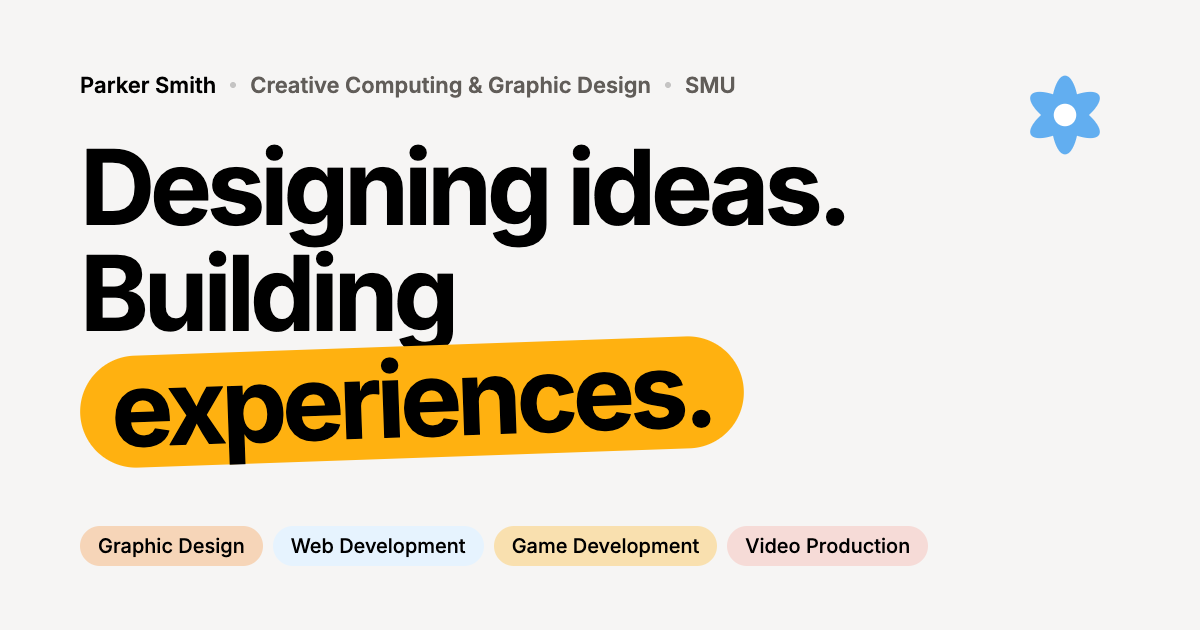
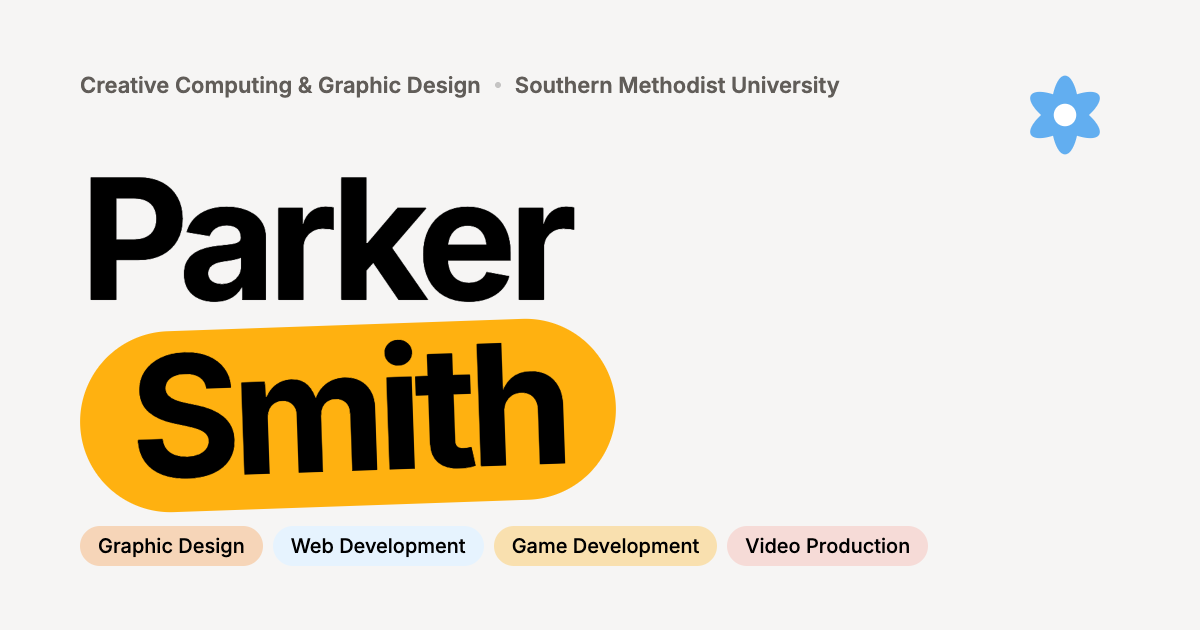
Lead with the name; trim About and Contact
- Hero headline is now "Parker Smith" (yellow pill on "Smith"); the line
  above it drops the name and keeps school and location.
- Contact heading is now "Contact Me".
- Remove the Relevant coursework cards from About.
- Regenerate the share image to match the new headline.

Changed region(s): [[0.0617, 0.2111, 0.7092, 0.8143], [0.0617, 0.1206, 0.7092, 0.1508], [0.0617, 0.573, 0.0925, 0.6032]]

diff --git a/src/components/AboutEducation.tsx b/src/components/AboutEducation.tsx
@@ -1,10 +1,8 @@
 import { motion } from "motion/react";
-import { BookOpen, Box, Gamepad2, GraduationCap, Layers, MapPin, PenTool } from "lucide-react";
+import { GraduationCap, MapPin } from "lucide-react";
 import { about, education } from "../data/portfolio";
 import { DrawLine, Reveal, SectionHeading, Stagger, StaggerItem } from "./AnimatedSection";
 
-const COURSE_ICONS = [Gamepad2, Box, PenTool, Layers];
-const COURSE_TONES = ["bg-marigold text-ink", "bg-sky text-ink", "bg-coral text-white", "bg-midnight text-white"];
 
 function academicProgress() {
   const start = new Date(education.start).getTime();
@@ -109,37 +107,6 @@ export function AboutEducation() {
               </div>
             </article>
           </motion.div>
-        </div>
-
-        <div className="mt-16 md:mt-20">
-          <Reveal>
-            <h3 className="flex items-center gap-2 text-sm font-semibold text-ink">
-              <BookOpen className="h-4 w-4 text-blue" aria-hidden />
-              Relevant coursework
-            </h3>
-          </Reveal>
-          <Stagger as="ul" className="mt-5 grid gap-3 sm:grid-cols-2 lg:grid-cols-4" stagger={0.1}>
-            {education.coursework.map((course, i) => {
-              const Icon = COURSE_ICONS[i % COURSE_ICONS.length];
-              return (
-                <StaggerItem as="li" key={course} className="h-full">
-                  <div className="card group flex h-full flex-col justify-between gap-10 p-6 transition-colors duration-200 hover:border-black/20">
-                    <div className="flex items-start justify-between">
-                      <span
-                        className={`flex h-10 w-10 items-center justify-center rounded-button ${
-                          COURSE_TONES[i % COURSE_TONES.length]
-                        }`}
-                      >
-                        <Icon className="h-5 w-5 transition-transform duration-300 group-hover:rotate-[-8deg] group-hover:scale-110" aria-hidden />
-                      </span>
-                      <span className="text-xs font-medium tabular-nums text-stone">0{i + 1}</span>
-                    </div>
-                    <p className="text-lg font-semibold leading-snug tracking-tight">{course}</p>
-                  </div>
-                </StaggerItem>
-              );
-            })}
-          </Stagger>
         </div>
       </div>
     </section>

diff --git a/src/components/Hero.tsx b/src/components/Hero.tsx
@@ -60,8 +60,6 @@ export function Hero() {
   const fast = useTransform(scrollYProgress, [0, 1], [0, -180]);
   const sink = useTransform(scrollYProgress, [0, 1], [0, 120]);
 
-  const lead = hero.headlineLead.split(" ");
-
   return (
     <section
       id="top"
@@ -90,8 +88,6 @@ export function Hero() {
           animate={{ opacity: 1, y: 0 }}
           transition={{ duration: 0.6, ease: EASE }}
         >
-          <span className="basis-full text-base font-semibold text-ink sm:basis-auto">{contact.name}</span>
-          <span aria-hidden className="hidden h-1 w-1 rounded-full bg-black/30 sm:block" />
           <span>{education.school}</span>
           <span aria-hidden className="h-1 w-1 rounded-full bg-black/30" />
           <span className="inline-flex items-center gap-1">
@@ -114,25 +110,20 @@ export function Hero() {
           ))}
         </ul>
 
-        <h1 id="hero-title" className="t-display mt-8 max-w-[14ch] text-ink sm:max-w-none">
+        <h1
+          id="hero-title"
+          className="t-display mt-8 text-ink [font-size:clamp(3.5rem,1.4rem+8.5vw,8.5rem)]"
+        >
           <span className="sr-only">
-            {hero.headlineLead} {hero.headlineVerb} {hero.headlineHighlight}
+            {hero.headlineLead} {hero.headlineHighlight}
           </span>
-          <span aria-hidden className="block">
-            {lead.map((w, i) => (
-              <Word key={w} delay={0.2 + i * 0.08}>
-                {w}
-                {i < lead.length - 1 ? " " : ""}
-              </Word>
-            ))}
-          </span>
-          <span aria-hidden className="mt-1 block">
-            <Word delay={0.4}>{hero.headlineVerb}&nbsp;</Word>
+          <span aria-hidden>
+            <Word delay={0.2}>{hero.headlineLead}&nbsp;</Word>
             <motion.span
               className="relative inline-block align-bottom"
               initial={{ opacity: 0, scale: 0.7, rotate: -4 }}
               animate={{ opacity: 1, scale: 1, rotate: -2 }}
-              transition={{ type: "spring", stiffness: 260, damping: 16, delay: 0.55 }}
+              transition={{ type: "spring", stiffness: 260, damping: 16, delay: 0.4 }}
             >
               <span className="inline-block rounded-full bg-marigold px-[0.32em] pb-[0.08em]">
                 {hero.headlineHighlight}

diff --git a/src/components/Contact.tsx b/src/components/Contact.tsx
@@ -6,7 +6,7 @@ import { Reveal } from "./AnimatedSection";
 import { Arrow, Flower, Sparkle } from "./Decorations";
 
 const EASE = [0.22, 1, 0.36, 1] as const;
-const HEADLINE = ["Let's", "build", "something", "great."];
+const HEADLINE = ["Contact", "Me"];
 
 export function Contact() {
   const { copied, copy } = useCopy();
@@ -40,12 +40,12 @@ export function Contact() {
       <Flower className="absolute right-[7%] top-32 hidden h-14 w-14 md:block" color="#f64932" />
 
       <div className="container-page">
-        <p className="t-eyebrow text-blue">Contact</p>
+        <p className="t-eyebrow text-blue">Get in touch</p>
         <h2 id="contact-title" className="t-display mt-5 max-w-5xl">
           {HEADLINE.map((w, i) => (
             <span key={w} className="inline-block overflow-hidden pb-[0.08em] align-bottom">
               <motion.span
-                className={`inline-block ${w === "great." ? "rounded-full bg-sky-tint px-[0.28em] text-blue" : ""}`}
+                className={`inline-block ${w === "Me" ? "rounded-full bg-sky-tint px-[0.28em] text-blue" : ""}`}
                 initial={{ y: "105%" }}
                 whileInView={{ y: 0 }}
                 viewport={{ once: true, margin: "0px 0px -10% 0px" }}

diff --git a/src/data/portfolio.ts b/src/data/portfolio.ts
@@ -38,9 +38,9 @@ export const site = {
 
 export const hero = {
   categories: ["Graphic Design", "Web Development", "Game Development", "Video Production"],
-  headlineLead: "Designing ideas.",
-  headlineVerb: "Building",
-  headlineHighlight: "experiences.",
+  /** Rendered as "<lead> <highlight>", with the highlight in a yellow pill. */
+  headlineLead: "Parker",
+  headlineHighlight: "Smith",
   description:
     "I'm a Creative Computing and Graphic Design student at Southern Methodist University, creating interactive digital experiences through web development, game design, graphic design, and video production.",
 };
@@ -68,12 +68,6 @@ export const education = {
   dates: "August 2024 – May 2028",
   start: "2024-08-01",
   end: "2028-05-15",
-  coursework: [
-    "Game Design",
-    "Art of 3D Modeling & Animation",
-    "Intro to Graphic Design",
-    "Digital Hybrid Media I",
-  ],
 };
 
 export const youtube = {
